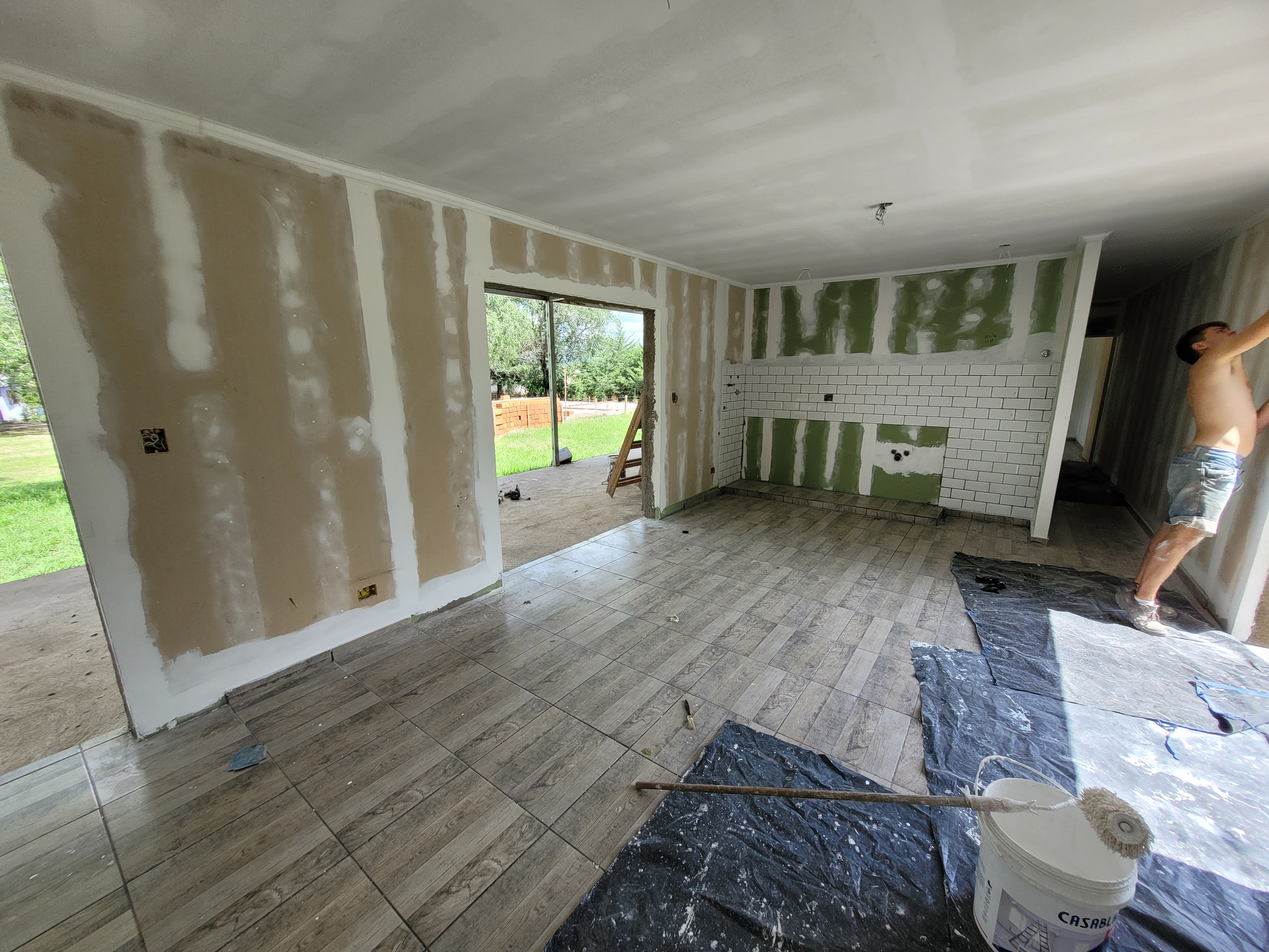
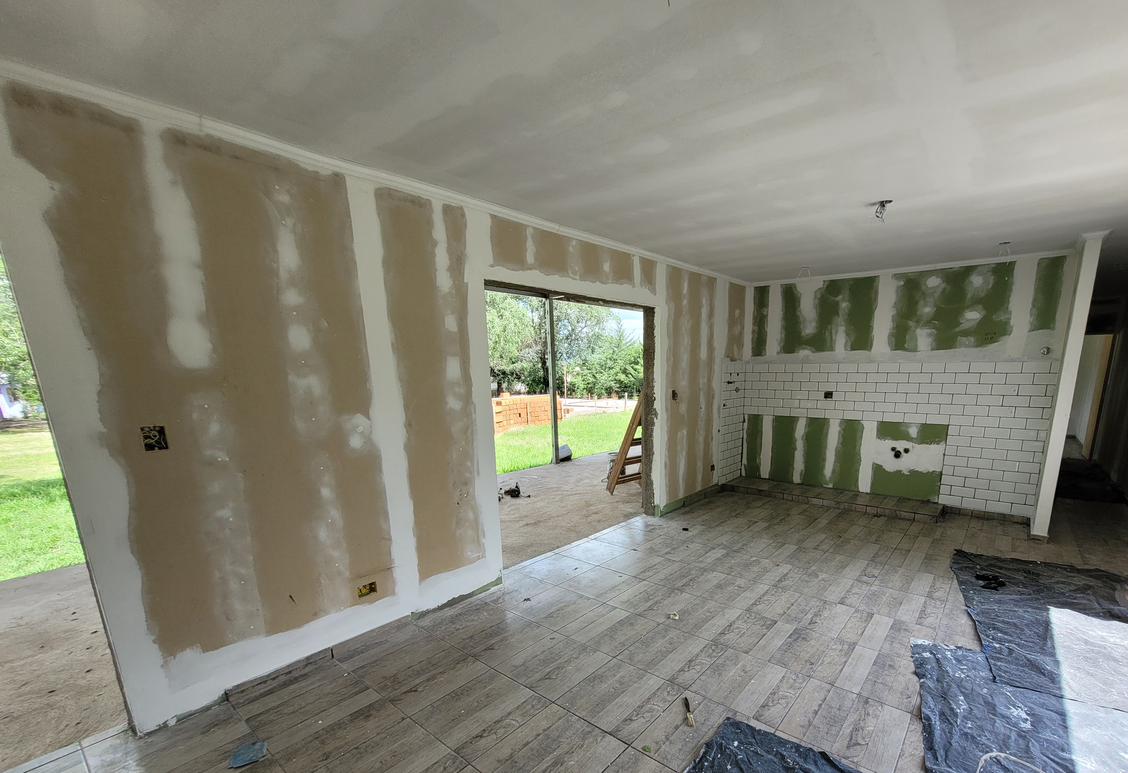
Fix pequeño 1

diff --git a/components/Hero.tsx b/components/Hero.tsx
@@ -19,12 +19,12 @@ export default function Hero() {
       <div className="relative z-10 h-full flex items-center justify-center">
         <div className="container-custom text-center px-6">
           <h1 className="text-white text-5xl md:text-7xl lg:text-8xl font-extrabold mb-6 tracking-tight">
-            SERVICIOS DE PINTURA
-            <span className="block text-brand-red mt-2">PROFESIONALES</span>
+            SERVICIO PROFESIONAL
+            <span className="block text-brand-red mt-2">DE PINTURA</span>
           </h1>
           
           <p className="text-gray-light text-lg md:text-xl lg:text-2xl max-w-3xl mx-auto mb-12 font-medium tracking-wide">
-            Transformamos hogares, construímos confianza.
+            TRANSFORMAMOS HOGARES, CONSTRUIMOS CONFIANZA.
           </p>
           
           <div className="flex flex-col sm:flex-row gap-4 justify-center">
